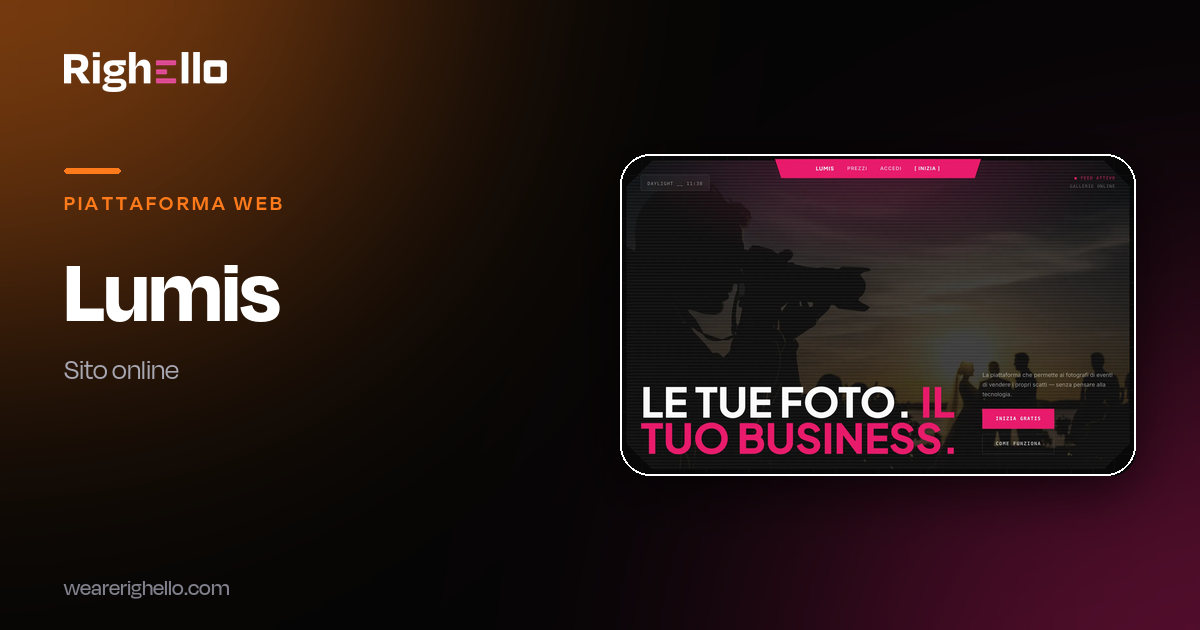
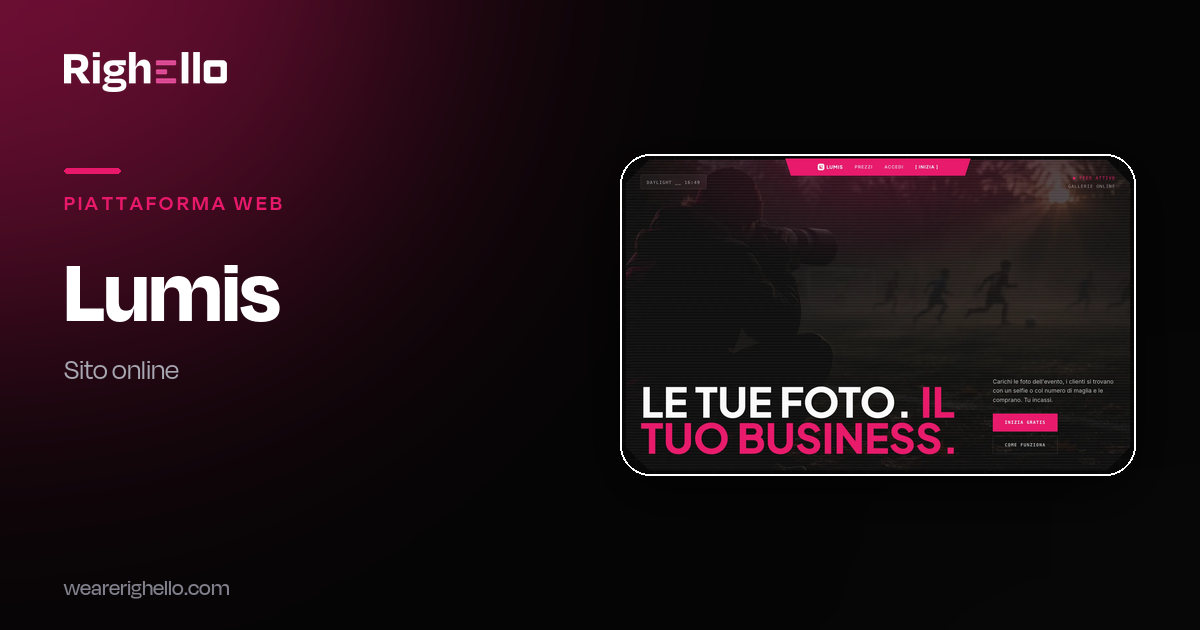
Lumis: marchio nuovo (icona, copertina, colori) e anteprime con lo stato giusto
L'icona era la vecchia (obiettivo con fiamma): ora e' l'icona d'app del kit del
marchio (brand/lumis, 24/11/2026). Copertina rifatta dal sito di oggi, colori
della scheda sul rosa del marchio (#E8196A). Anteprime di condivisione rifatte
per Lumis e per le schede il cui stato e' passato a «su App Store»; OG_VERSION
alzata perche' i social tengono in memoria l'indirizzo.

diff --git a/src/lib/data/case-studies.ts b/src/lib/data/case-studies.ts
@@ -388,7 +388,7 @@ export const caseStudies: CaseStudy[] = [
     status: { tone: 'live', label: 'Sito online' },
     platform: ['Web'],
     audience: 'Fotografi di eventi',
-    accent: ['#FF7A1A', '#E11D74'],
+    accent: ['#E8196A', '#0B0B0D'],
     headline: 'Dallo scatto alla vendita: gallery con il tuo marchio, consegna sicura.',
     text:
       'La piattaforma per fotografi di eventi: gallery ordinate in album, anteprime con filigrana, pagamento con carta sicuro e download in alta risoluzione. Sul sito e, in prova, su iPhone.',

diff --git a/src/lib/data/site.ts b/src/lib/data/site.ts
@@ -11,7 +11,7 @@ export const SITE_URL = 'https://www.wearerighello.com';
  * Immagini di condivisione: una per pagina in `static/og/`, generate da `scripts/og-images.ts`.
  * Il `?v=` si cambia qui, una volta, quando le immagini vengono rifatte (i social tengono in memoria l'indirizzo).
  */
-export const OG_VERSION = 1;
+export const OG_VERSION = 2;
 export const OG_SIZE = { width: 1200, height: 630 } as const;
 
 /** Immagine di partenza: una pagina che non ne dichiara una (area riservata, errori) usa quella della home. */
